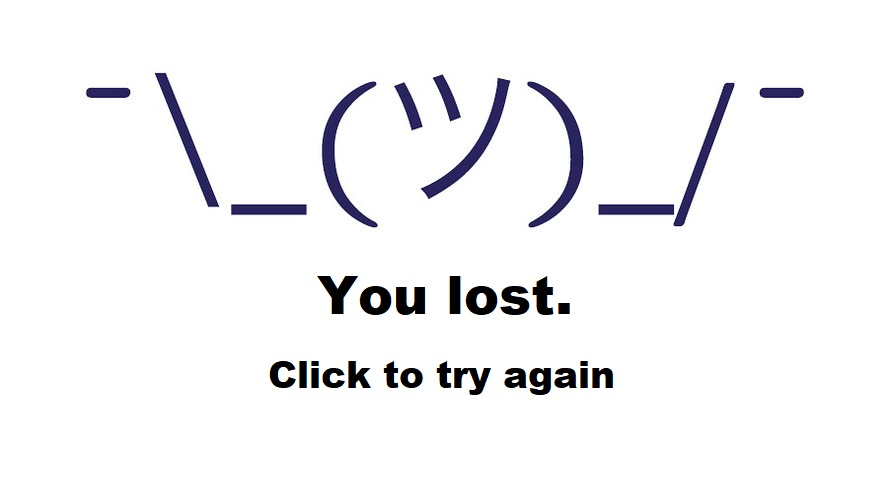
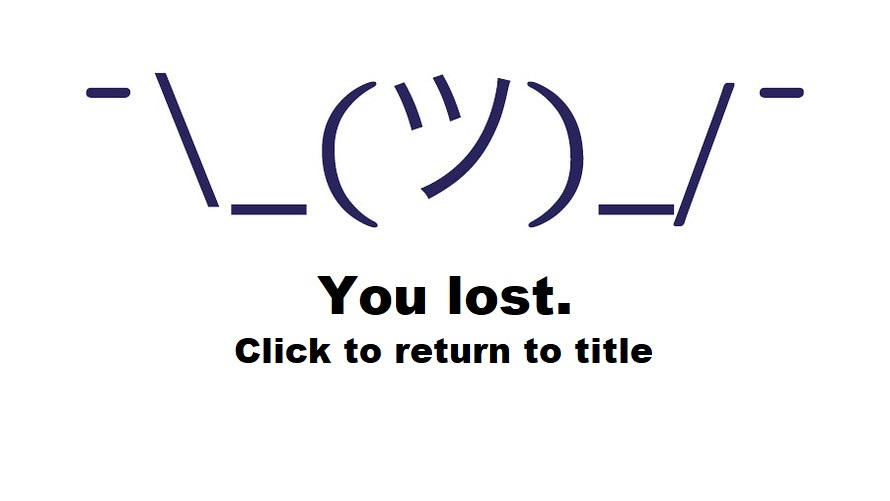
menus

Changed region(s): [[0.2427, 0.6587, 0.7584, 0.8084]]

diff --git a/main.py b/main.py
@@ -3,6 +3,7 @@ import sys
 import pygame
 from math import floor, sin, cos, atan, sqrt, degrees, radians
 from random import randrange, random, randint
+from time import sleep
 
 SCREEN_WIDTH = 1000
 SCREEN_HEIGHT = 700
@@ -44,8 +45,14 @@ youlosescaled = pygame.transform.scale(youlose, (SCREEN_WIDTH, SCREEN_HEIGHT))
 loading = pygame.image.load("assets/loading.gif")
 loadingscaled = pygame.transform.scale(loading, (SCREEN_WIDTH, SCREEN_HEIGHT))
 
+title = pygame.image.load("assets/title.png")
+titlescaled = pygame.transform.scale(title, (SCREEN_WIDTH, SCREEN_HEIGHT))
+
 victory = pygame.image.load("assets/victory.png")
 victoryscaled = pygame.transform.scale(victory, (960, 540))
+
+instructions = pygame.image.load("assets/instructions.png")
+instructionsscaled = pygame.transform.scale(instructions, (SCREEN_WIDTH, SCREEN_HEIGHT))
 
 heart = pygame.image.load("assets/heart.png")
 heartscaled = pygame.transform.scale(heart, (30, 30))
@@ -431,7 +438,8 @@ class Bullet(pygame.sprite.Sprite):
             bullets.remove(self)
 
         if pygame.sprite.spritecollide(platform, bullets, True) and not immortal:
-            platform.lenset(platform.rect.w - 20)
+            if not dead:
+                platform.lenset(platform.rect.w - 20)
 
 class Powerup(pygame.sprite.Sprite):
 
@@ -542,7 +550,12 @@ class Bloodsplatter(pygame.sprite.Sprite):
         if self.rect.w <= 0 or self.rect.h <= 0:
             blood.remove(self)
 
-maingame = True
+
+titlescreen = True
+losescreen = False
+maingame = False
+instructions = False
+youlose = False
 
 # main game loop
 while True:
@@ -552,8 +565,29 @@ while True:
             pygame.quit()
             sys.exit()
 
-
+    keys_pressed = pygame.key.get_pressed()
     mouse_buttons = pygame.mouse.get_pressed()
+
+    if titlescreen:
+        screen.blit(titlescaled, (0, 0))
+        if keys_pressed[pygame.K_s]:
+            screen.blit(loadingscaled, (0, 0))
+            maingame = True
+        if keys_pressed[pygame.K_i]:
+            maingame = False
+            titlescreen = False
+            instructions = True
+            title = False
+            youlose = False
+
+    if instructions:
+        screen.blit(instructionsscaled, (0, 0))
+        if keys_pressed[pygame.K_ESCAPE]:
+            instructions = False
+            titlescreen = True
+            maingame = False
+            youlose = False
+
 
     if maingame:
         # create starting objects
@@ -605,6 +639,8 @@ while True:
                     lives -= 1
                 else:
                     maingame = False
+                    titlescreen = False
+                    losescreen = True
                     platforms.empty()
                     balls.empty()
                     enemies.empty()
@@ -647,11 +683,15 @@ while True:
 
     # player has died
 
-    screen.blit(youlosescaled, (0, 0))
+    if losescreen:
+        screen.blit(youlosescaled, (0, 0))
 
-    if mouse_buttons[0]:
-        maingame = True
-        click.play()
-        screen.blit(loadingscaled, (0, 0))
+        if mouse_buttons:
+            instructions = False
+            titlescreen = True
+            maingame = False
+            youlose = False
+            click.play()
+            screen.blit(loadingscaled, (0, 0))
 
     pygame.display.flip()
